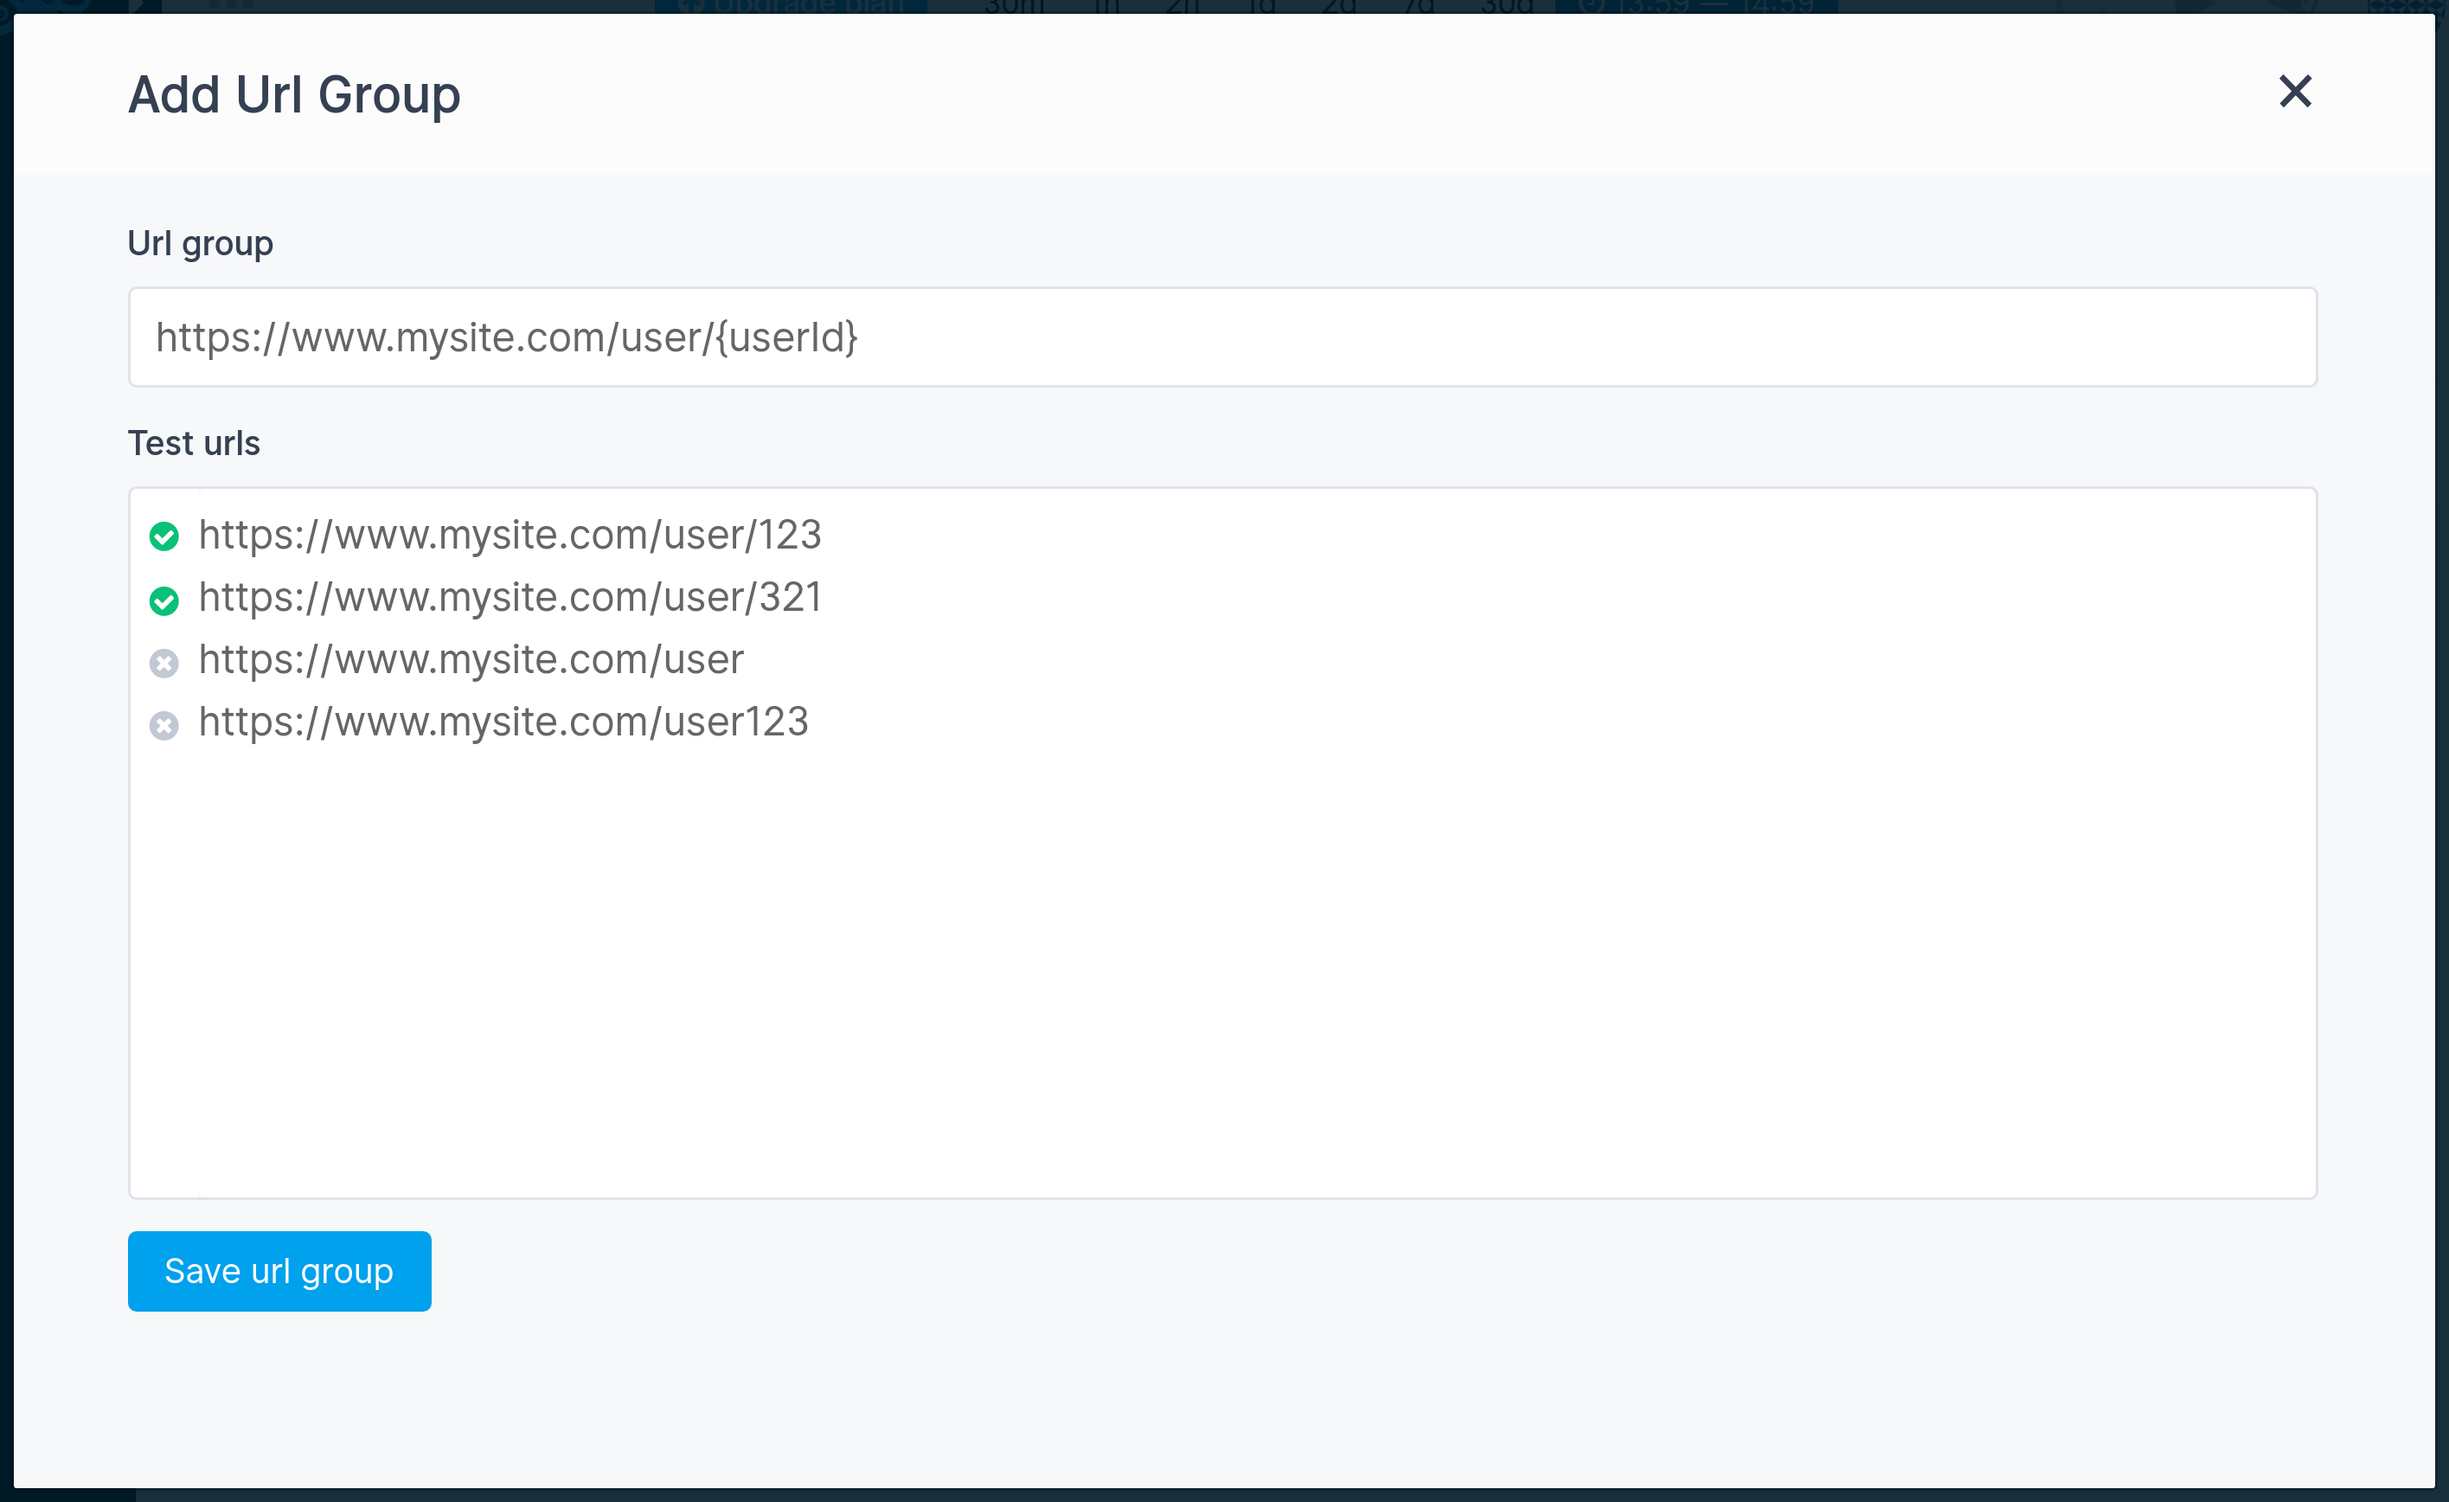
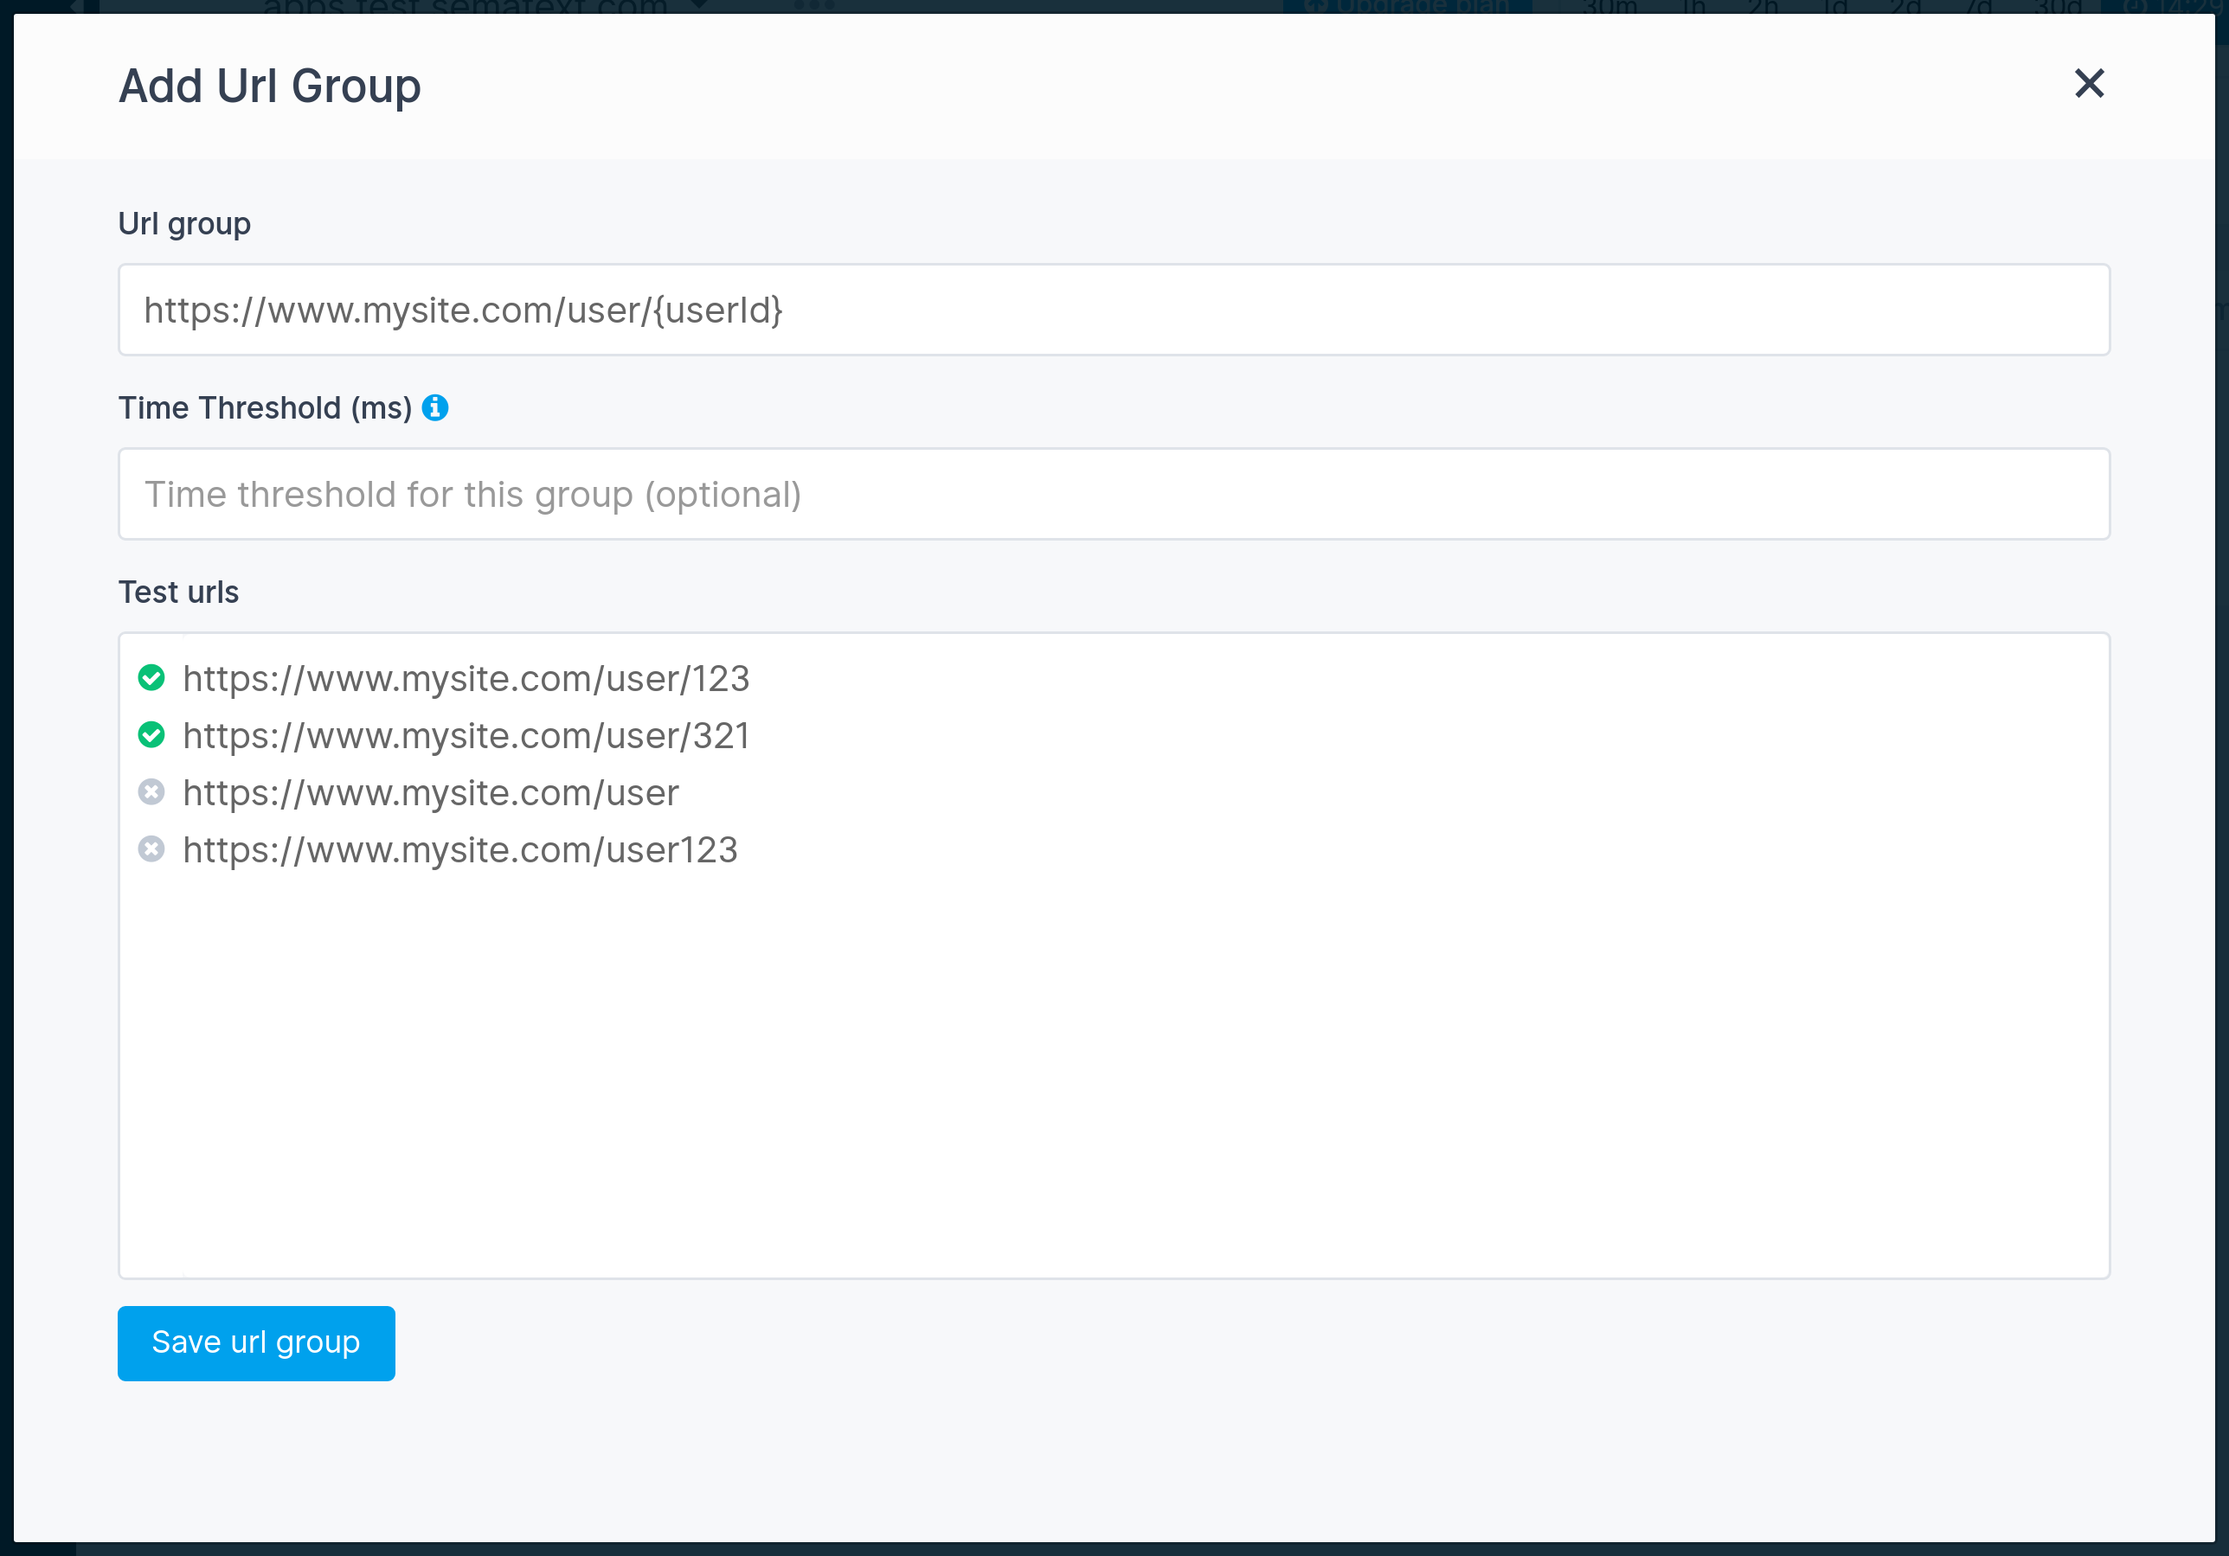
Adjust url groups doc with new form

diff --git a/docs/experience/url-groups.md b/docs/experience/url-groups.md
@@ -20,16 +20,17 @@ To create a new URL Group open your Experience App and do the following:
 1. Open URL Groups in the left sidebar menu
 2. Click on the Add button in the top left
 3. Enter the URL pattern, use curly braces for placeholders. Eg. `/user/{userId}`. would match any url of this form (`/user/123`, `/user/122`, etc.)
-4. You can also enter exact URLs without placeholders to match one specific part of your website (see URL Group Time Threshold below as to why this might be useful)
-4. You can use the text area below to test if the pattern matches the list of provided URLs
+4. Optionally enter the time threshold (see below for more information)
+5. You can also enter exact URLs without placeholders to match one specific part of your website (see URL Group Time Threshold below as to why this might be useful)
+6. You can use the text area below to test if the pattern matches the list of provided URLs
 
 <img
   class="content-modal-image"
   alt="Create Experience URL Group Form"
   src="../../images/experience/urlgroup-1.png"
   title="Create Experience URL Group Form"
-  width=934
-  height=573
+  width=850
+  height=594
 />
 
 ### URL Group Time Threshold

diff --git a/docs/experience/configure-requirements.md b/docs/experience/configure-requirements.md
@@ -18,7 +18,7 @@ To configure time thresholds for page loads and requests, click on Configure Req
 
 ### URL Groups
 
-To configure time thresholds for specific URL group, click on Configure Requirements in the App sidebar menu and adjust the time threshold input next to each URL group.
+To configure time thresholds for specific URL group, click on Configure Requirements in the App sidebar menu and adjust the time threshold input next to each URL group. You can also go to the URL Groups page and adjust the thresholds there.
 
 <img
   class="content-modal-image"
